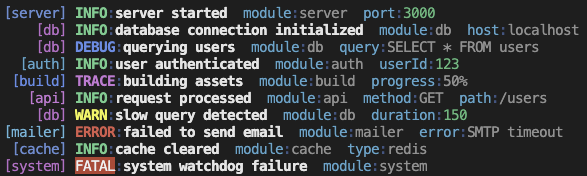
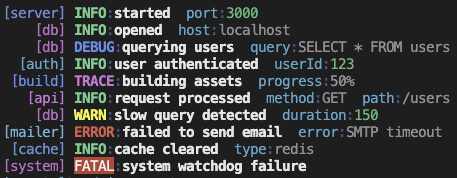
feat: Introduce module mode for color-coded, right-aligned module prefixes and remove individual field formatting options.

diff --git a/src/pino-zen-cli.ts b/src/pino-zen-cli.ts
@@ -3,30 +3,16 @@ import { fstatSync } from 'node:fs'
 import { pipeline, Writable } from 'node:stream'
 import { parseArgs } from 'node:util'
 import split2 from 'split2'
-import { FormatMessage, type PinoZenOptions, type StringFormatter } from './pino-zen-format.js'
+import { FormatMessage, type PinoZenOptions } from './pino-zen-format.js'
 
 const { values } = parseArgs({
     options: {
-        dim: { type: 'string', short: 'd', multiple: true },
-        error: { type: 'string', short: 'e', multiple: true },
         module: { type: 'string', short: 'm' },
     },
     strict: false,
 })
 
-const formatter: Record<string, false | StringFormatter> = {}
-const pinoZenOptions: PinoZenOptions = { formatter }
-
-function addFormatOption(key: string, value: StringFormatter) {
-    formatter[key] = { ...formatter[key], ...value }
-}
-
-for (const v of (values.dim as string[]) ?? []) {
-    addFormatOption(v, { dim: true })
-}
-for (const v of (values.error as string[]) ?? []) {
-    addFormatOption(v, { error: true })
-}
+const pinoZenOptions: PinoZenOptions = {}
 
 if (values.module) {
     pinoZenOptions.module = values.module as string

diff --git a/src/pino-zen-format.ts b/src/pino-zen-format.ts
@@ -7,13 +7,8 @@ const ArrayEnd = chalk.yellow(' ]')
 
 export interface PinoZenOptions {
     destination?: string | number
-    formatter?: Record<string, false | StringFormatter>
+    formatter?: Record<string, false>
     module?: string
-}
-
-export interface StringFormatter {
-    error?: boolean
-    dim?: boolean
 }
 
 const moduleColorCache = new Map<string, (s: string) => string>()
@@ -101,6 +96,7 @@ export function FormatMessage(inputMessage: unknown, opts: PinoZenOptions): stri
                 case 'msg':
                 case 'time':
                 case 'level':
+                case opts.module as string:
                     break
                 default: {
                     const value = message[key]
@@ -119,6 +115,7 @@ export function FormatMessage(inputMessage: unknown, opts: PinoZenOptions): stri
                 case 'msg':
                 case 'time':
                 case 'level':
+                case opts.module as string:
                     break
                 default: {
                     const value = message[key]

diff --git a/tests/pino-zen-format.test.ts b/tests/pino-zen-format.test.ts
@@ -254,6 +254,12 @@ describe('FormatMessage', () => {
             assert.ok(result.includes('3000'))
         })
 
+        it('does not include module field in additional fields', () => {
+            const result = stripAnsi(FormatMessage({ level: 30, msg: 'started', module: 'server' }, moduleOpts))
+            // It should be at the start but not in the fields area
+            assert.ok(!result.includes('module:server'))
+        })
+
         it('cycles colors for different modules', () => {
             ResetModuleMetadata()
             // This is harder to test with stripAnsi, but we can check if it runs without error

diff --git a/README.md b/README.md
@@ -40,6 +40,33 @@ const logger = pino({
 });
 ```
 
+### Module Mode
+
+Pino Zen includes a "Module Mode" that prepends a color-coded and right-aligned module name to your logs. This is especially useful for microservices or mono-repos where you want to distinguish logs from different components at a glance.
+
+#### Performance & Alignment
+
+Module names are automatically tracked, and the prefix is right-aligned based on the longest module name encountered during the process lifecycle.
+
+```js
+const logger = pino({
+  transport: {
+      target: "pino-zen",
+      options: { module: "module" },
+  }
+});
+
+logger.info({ module: "api" }, "request processed");
+logger.info({ module: "auth" }, "user verified");
+```
+
+Output:
+
+```text
+ [api]  INFO:request processed
+[auth]  INFO:user verified
+```
+
 ### CLI Pipe
 
 Pipe any NDJSON log output through the `pino-zen` CLI:
@@ -50,15 +77,12 @@ node app.js | pino-zen
 
 #### CLI Options
 
-| Flag | Description | Example |
-|------|-------------|---------|
-| `-d`, `--dim` | Dim a field | `pino-zen -d hostname` |
-| `-e`, `--error` | Color a field as error | `pino-zen -e err` |
-| `-r`, `--right` | Pad a field on the right | `pino-zen -r msg=20` |
-| `-l`, `--left` | Pad a field on the left | `pino-zen -l level=5` |
+| Flag | Short | Description | Example |
+|------|-------|-------------|---------|
+| `--module` | `-m` | Use a field as the module prefix | `pino-zen -m module` |
 
-Flags can be repeated:
+Example usage:
 
 ```sh
-node app.js | pino-zen -d hostname -d pid -r msg=30 -e err
+node app.js | pino-zen -m service
 ```
